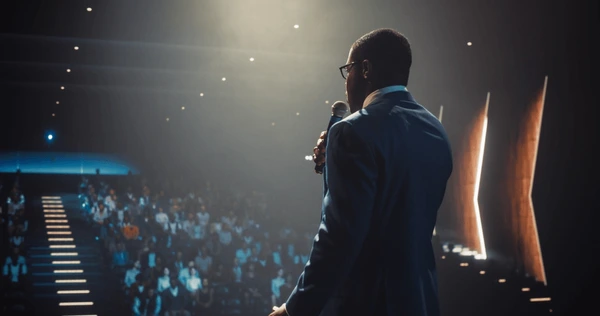
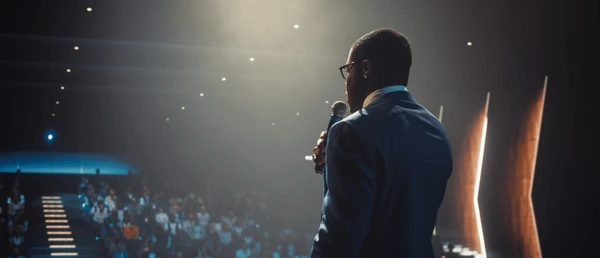
new chnages

diff --git a/wp-content/themes/toddpatkin/assets/css/style.css b/wp-content/themes/toddpatkin/assets/css/style.css
@@ -4339,9 +4339,9 @@ section .text-muted {
     right: 0;
     bottom: 0;
     background: 
-        linear-gradient(0deg, rgba(19, 19, 17, 0.5), rgba(19, 19, 17, 0.4)),
-        linear-gradient(90.04deg, rgba(27, 115, 210, 0) -195.56%, rgba(27, 115, 210, 0.9) 147.78%),
-        linear-gradient(0deg, rgba(39, 91, 167, 0.5), rgba(39, 91, 167, 0.4));
+        linear-gradient(0deg, rgba(19, 19, 17, 0.2), rgba(19, 19, 17, 0.15)),
+        linear-gradient(90.04deg, rgba(27, 115, 210, 0) -195.56%, rgba(27, 115, 210, 0.4) 147.78%),
+        linear-gradient(0deg, rgba(39, 91, 167, 0.25), rgba(39, 91, 167, 0.2));
     z-index: 1;
     pointer-events: none;
 }
@@ -4359,7 +4359,7 @@ section .text-muted {
 .course-banner-featuring {
     font-family: 'Poppins', sans-serif;
     font-weight: 400;
-    font-size: 14px;
+    font-size: 24px;
     text-transform: uppercase;
     color: #FFFFFF;
     margin-bottom: 10px;
@@ -4368,8 +4368,8 @@ section .text-muted {
 
 .course-banner-title {
     font-family: 'Oswald', sans-serif;
-    font-weight: 600;
-    font-size: 48px;
+    font-weight: 700;
+    font-size: 78px;
     line-height: 1.2;
     text-transform: uppercase;
     margin: 0 0 15px 0;
@@ -4387,7 +4387,7 @@ section .text-muted {
 .course-banner-subtitle {
     font-family: 'Poppins', sans-serif;
     font-weight: 400;
-    font-size: 16px;
+    font-size: 24px;
     color: #FFFFFF;
     margin: 0;
     line-height: 1.6;
@@ -4396,8 +4396,12 @@ section .text-muted {
 /* Responsive Styles for Course Banner */
 @media (max-width: 768px) {
     .course-banner-section {
-        height: 130px;
+        min-height: 300px;
         border-radius: 8px;
+    }
+    
+    .course-banner-image {
+        min-height: 300px;
     }
     
     .course-banner-content {
@@ -4421,8 +4425,12 @@ section .text-muted {
 
 @media (max-width: 576px) {
     .course-banner-section {
-        height: 120px;
+        min-height: 250px;
         border-radius: 6px;
+    }
+    
+    .course-banner-image {
+        min-height: 250px;
     }
     
     .course-banner-content {

diff --git a/wp-content/themes/toddpatkin/front-page.php b/wp-content/themes/toddpatkin/front-page.php
@@ -169,7 +169,7 @@
                 </div>
             </div>
             <div class="w-100  text-center py-2 mt-5 mb-5">
-                <a href="#" class="btn btn-warning video-section-btn"><span class="btn-content">View More Featuring
+                <a href="<?php echo esc_url( home_url( '/podcast' ) ); ?>" class="btn btn-warning video-section-btn"><span class="btn-content">View More Featuring
                         Todd</span></a>
             </div>
         </div>
